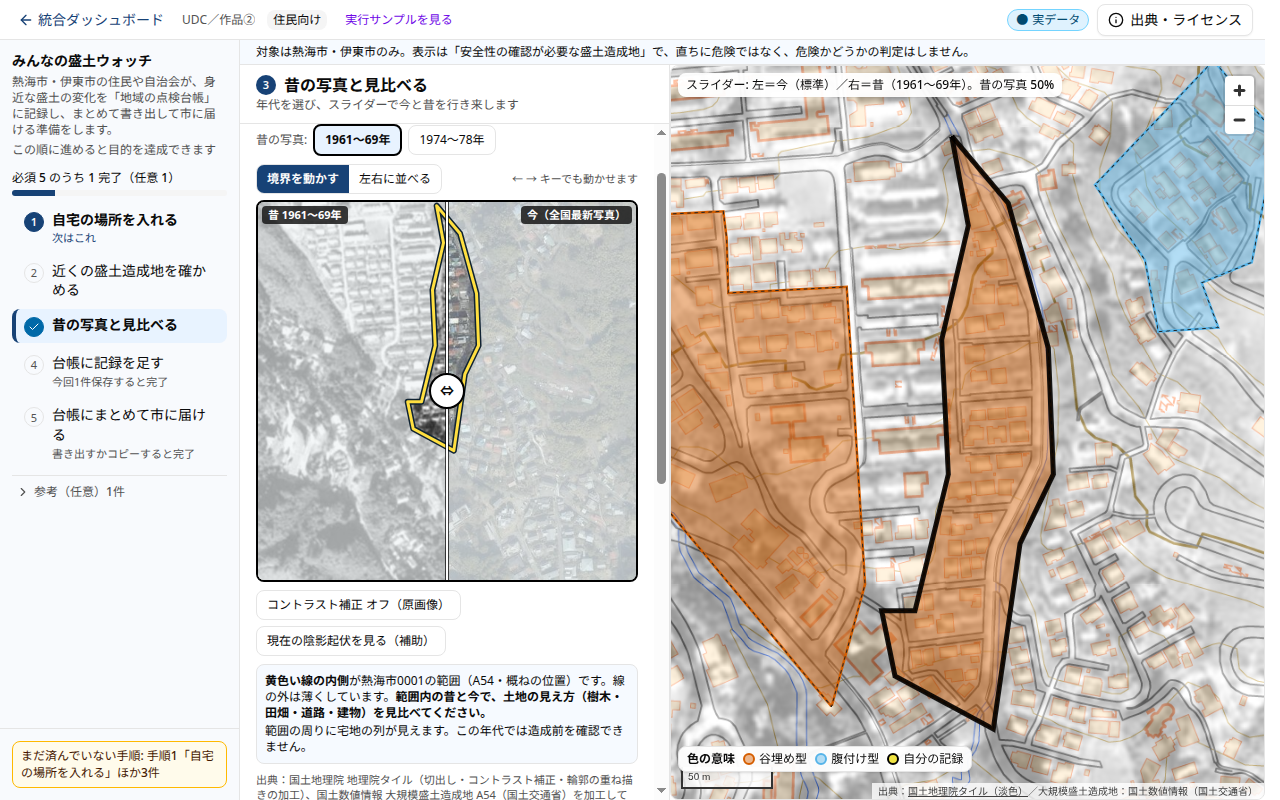
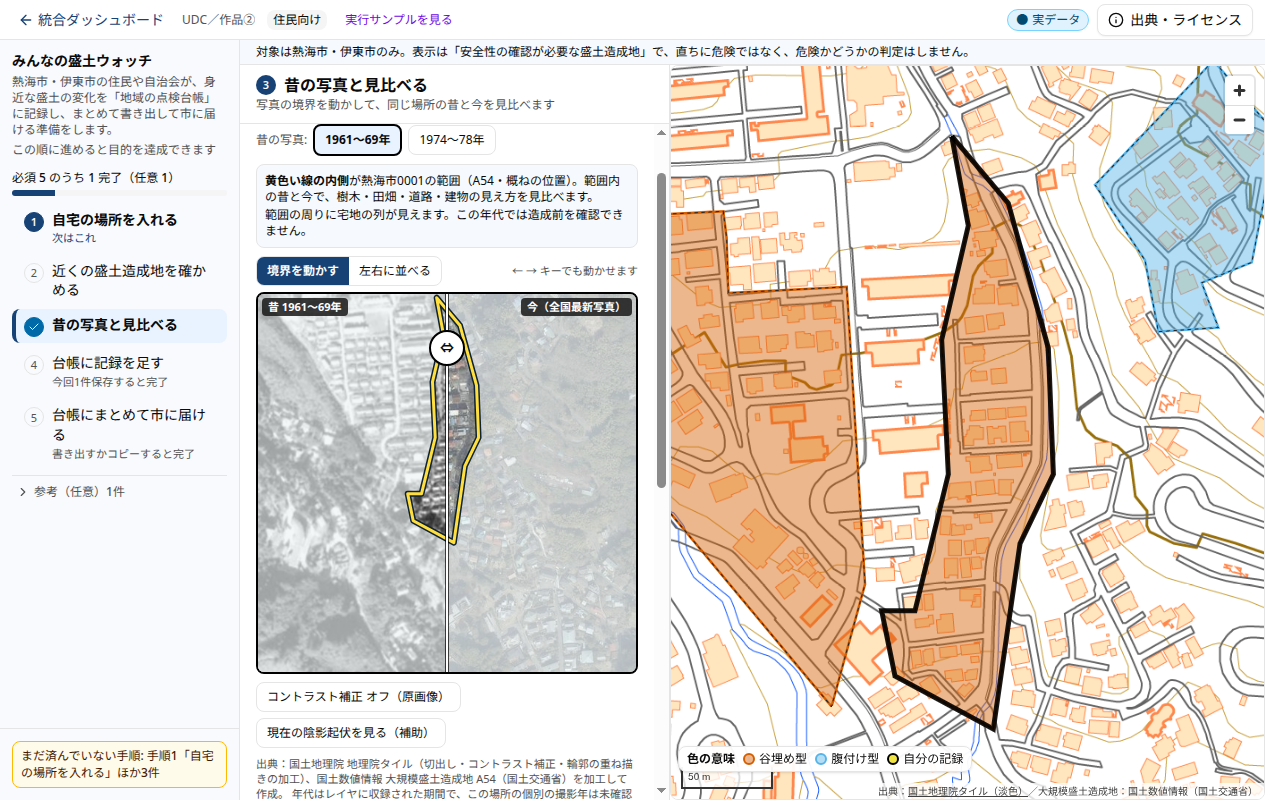
デザイン審査M1〜M5の修正: 盛土の初期表示は新旧比較を主役に、スマホは地図を小さくして境界と観察結果を初期画面内へ、端では表示外の年代ラベルを出さない、つまみを上部へ移し細い範囲の中心を覆わない、旧河道の資料名を写真の直下へ・原図は移動手段つき

diff --git a/contests/dashboard/src/components/shared/PhotoCompare.tsx b/contests/dashboard/src/components/shared/PhotoCompare.tsx
@@ -2,7 +2,7 @@
    - 境界はドラッグ、またはキーボード（← →、Shift で大きく、Home／End）で動かせる
    - TileMosaic: 地理院タイル（ズーム固定）を画素位置に並べる。画像が無い年代は「この年代の画像なし」を出す（空白で済ませない）
    - ringsToPath: 輪郭（経緯度のリング）を画素座標のパスにする */
-import { useCallback, useEffect, useRef, useState, type KeyboardEvent, type PointerEvent, type ReactNode } from 'react'
+import { useCallback, useEffect, useLayoutEffect, useRef, useState, type KeyboardEvent, type PointerEvent, type ReactNode } from 'react'
 
 export const WIN = 512
 const TILE_BASE = 'https://cyberjapandata.gsi.go.jp/xyz/'
@@ -88,14 +88,27 @@ export function CompareFrame({ children }: { children: ReactNode }) {
 }
 
 export function PhotoCompare({
-  left, right, overlay, ariaLabel, onInteract, testId = 'photo-compare', defaultMode = 'swipe',
+  left, right, overlay, caption, ariaLabel, onInteract, testId = 'photo-compare', defaultMode = 'swipe',
 }: {
-  left: CompareSide; right: CompareSide; overlay?: ReactNode; ariaLabel: string; onInteract?: () => void; testId?: string; defaultMode?: 'swipe' | 'side'
+  left: CompareSide; right: CompareSide; overlay?: ReactNode; /** 写真の直下に常に出す説明（例: 重ねている輪郭の資料名） */ caption?: ReactNode; ariaLabel: string; onInteract?: () => void; testId?: string; defaultMode?: 'swipe' | 'side'
 }) {
   const [mode, setMode] = useState<'swipe' | 'side'>(defaultMode)
   const [pos, setPos] = useState(50)
   const box = useRef<HTMLDivElement>(null)
   const drag = useRef(false)
+  const [boxW, setBoxW] = useState(360)
+  useLayoutEffect(() => {
+    const e = box.current
+    if (!e) return
+    setBoxW(e.getBoundingClientRect().width || 360)
+    const ro = new ResizeObserver(() => setBoxW(e.getBoundingClientRect().width || 360))
+    ro.observe(e)
+    return () => ro.disconnect()
+  }, [mode])
+  // 年代ラベルは、その側の写真がラベルの幅より広く見えているときだけ出す（見えていない側の年代を写真の上に残さない）
+  const labelW = (t: string) => t.length * 11 + 16
+  const showLeft = (pos / 100) * boxW >= labelW(left.label) + 8
+  const showRight = ((100 - pos) / 100) * boxW >= labelW(right.label) + 8
   const move = useCallback((clientX: number) => {
     const r = box.current?.getBoundingClientRect()
     if (!r || r.width === 0) return
@@ -136,14 +149,19 @@ export function PhotoCompare({
         >
           <div className="absolute inset-0">{right.node}{overlay}</div>
           <div className="absolute inset-0" style={{ clipPath: `inset(0 ${100 - pos}% 0 0)` }}>{left.node}{overlay}</div>
-          <span className={`${badge} left-1`}>{left.label}</span>
-          <span className={`${badge} right-1 text-right`}>{right.label}</span>
+          {pos > 0 && pos < 100 && showLeft && <span className={`${badge} left-1`} data-testid="label-left">{left.label}</span>}
+          {pos > 0 && pos < 100 && showRight && <span className={`${badge} right-1 text-right`} data-testid="label-right">{right.label}</span>}
+          {(pos <= 0 || pos >= 100 || (!showLeft && !showRight)) && (
+            <span className={`${badge} left-1 !max-w-[70%]`} data-testid="label-state">
+              {pos <= 0 ? `全面：${right.label}` : pos >= 100 ? `全面：${left.label}` : '境界を広げると年代が出ます'}
+            </span>
+          )}
           <div className="pointer-events-none absolute inset-y-0 z-10 w-0.5 -translate-x-1/2 bg-white shadow-[0_0_0_1px_rgba(0,0,0,.7)]" style={{ left: `${pos}%` }} />
           <div
             role="slider" tabIndex={0} aria-label="新旧の境界。左右の矢印キーで動かす" aria-orientation="horizontal"
             aria-valuemin={0} aria-valuemax={100} aria-valuenow={pos} aria-valuetext={`左の ${pos}% が「${left.label}」、残りが「${right.label}」`}
             onKeyDown={key}
-            className="absolute top-1/2 z-20 flex size-9 -translate-x-1/2 -translate-y-1/2 items-center justify-center rounded-full border-2 border-black bg-white text-sm font-bold shadow focus-visible:outline-none focus-visible:ring-4 focus-visible:ring-[#0072B2]"
+            className="absolute top-9 z-20 flex size-9 -translate-x-1/2 items-center justify-center rounded-full border-2 border-black bg-white text-sm font-bold shadow focus-visible:outline-none focus-visible:ring-4 focus-visible:ring-[#0072B2]"
             style={{ left: `${pos}%` }}
           >⇔</div>
         </div>
@@ -157,6 +175,7 @@ export function PhotoCompare({
           ))}
         </div>
       )}
+      {caption}
     </div>
   )
 }

diff --git a/contests/dashboard/src/apps/udc-moritsuchi/SitePhotoCompare.tsx b/contests/dashboard/src/apps/udc-moritsuchi/SitePhotoCompare.tsx
@@ -89,6 +89,17 @@ export function SitePhotoCompare({ fill, onInteract }: { fill: FillFeature; onIn
           <button key={e} type="button" aria-pressed={era === e} className={btn} onClick={() => { setEra(e); onInteract?.() }}>{ERA_LABEL[e]}</button>
         ))}
       </div>
+      <div className="space-y-0.5 rounded-md border bg-accent/40 p-2 text-xs" data-testid="site-compare-note">
+        <p><b>黄色い線の内側</b>が{id}の範囲（A54・概ねの位置）。範囲内の昔と今で、樹木・田畑・道路・建物の見え方を見比べます。</p>
+        {obs && (
+          <p data-testid="site-obs">
+            {obs.pre ? `見えること（目視）: ${obs.text}` : `${obs.text}この年代では造成前を確認できません。`}
+            {obs.pre && 'ただし写真から谷や沢の位置・盛土の厚さは分かりません。'}
+          </p>
+        )}
+        {!obs && <p>見えること: この地点の読み取りは未実施です。写真は目視で見比べ、昔の様子は断定しません。</p>}
+        {hill && <p>陰影起伏は<b>現在の</b>地形を陰影で表した図です。昔の地形は分かりません（写真より粗く表示されます）。</p>}
+      </div>
       <PhotoCompare
         ariaLabel={`${id}の昔の写真と今の比較`}
         onInteract={onInteract}
@@ -106,17 +117,6 @@ export function SitePhotoCompare({ fill, onInteract }: { fill: FillFeature; onIn
       </div>
       {!prepared && <p className="text-[11px] text-muted-foreground">この地点は補正なしの原画像だけを表示します（補正は偵察で使った3地点のみ）。</p>}
       {oldMissing && !prepared && <p className="text-xs font-bold" role="status">この年代の写真は、この場所には提供されていません。</p>}
-      <div className="space-y-0.5 rounded-md border bg-accent/40 p-2 text-xs" data-testid="site-compare-note">
-        <p><b>黄色い線の内側</b>が{id}の範囲（A54・概ねの位置）です。線の外は薄くしています。<b>範囲内の昔と今で、土地の見え方（樹木・田畑・道路・建物）を見比べてください。</b></p>
-        {obs && (
-          <p data-testid="site-obs">
-            {obs.pre ? `見えること（目視）: ${obs.text}` : `${obs.text}この年代では造成前を確認できません。`}
-            {obs.pre && 'ただし写真から谷や沢の位置・盛土の厚さは分かりません。'}
-          </p>
-        )}
-        {!obs && <p>見えること: この地点の読み取りは未実施です。写真は目視で見比べ、昔の様子は断定しません。</p>}
-        {hill && <p>陰影起伏は<b>現在の</b>地形を陰影で表した図です。昔の地形は分かりません（写真より粗く表示されます）。</p>}
-      </div>
       <p className="text-[11px] leading-snug text-muted-foreground">
         出典：国土地理院 地理院タイル（切出し・{prepared ? 'コントラスト補正・' : ''}輪郭の重ね描きの加工）、国土数値情報 大規模盛土造成地 A54（国土交通省）を加工して作成。
         年代はレイヤに収録された期間で、この場所の個別の撮影年は未確認です。「今」の写真は最新の現況を保証しません。

diff --git a/contests/dashboard/src/apps/biz-idea/ChimeiCompare.tsx b/contests/dashboard/src/apps/biz-idea/ChimeiCompare.tsx
@@ -35,7 +35,7 @@ export function inS1Area(lon: number, lat: number) {
 }
 
 export function ChimeiCompare({
-  lon, lat, isSample, channel, onChannel, onInteract,
+  lon, lat, isSample, channel, onChannel, onInteract, onShowMap,
 }: {
   lon: number; lat: number
   /** サンプル地名 s1 か（注目枠と補正画像を使う） */
@@ -43,6 +43,8 @@ export function ChimeiCompare({
   channel: ChannelMode
   onChannel: (m: ChannelMode) => void
   onInteract?: () => void
+  /** 地図（原図）の位置へ移動する（押したときだけ。自動では動かさない） */
+  onShowMap?: () => void
 }) {
   const [era, setEra] = useState<Era>('ort_old10')
   const [clahe, setClahe] = useState(false)
@@ -113,6 +115,12 @@ export function ChimeiCompare({
         left={{ label: `${ERAS[era].short}${claheOn ? '（補正）' : ''}`, node: oldNode }}
         right={{ label: '今（全国最新写真）', node: newNode }}
         overlay={overlay}
+        caption={showOutline ? (
+          <p className="flex items-center gap-1.5 text-xs font-bold" data-testid="channel-caption">
+            <span className="inline-block h-1 w-6 shrink-0 bg-[#0054c8] ring-1 ring-white" />
+            青線＝治水地形分類図の旧河道（近似輪郭）。写真から分かった川筋ではありません
+          </p>
+        ) : undefined}
       />
       {missing && !(s1 && era === 'ort_old10') && <p className="text-xs font-bold" role="status">この年代の画像なし（この場所の昔の写真は提供されていません）。</p>}
 
@@ -141,9 +149,16 @@ export function ChimeiCompare({
             {channel === 'outline' ? '旧河道の輪郭を表示中（押すと消す）' : '旧河道の輪郭を重ねる'}
           </button>
           <button type="button" className={btn} aria-pressed={channel === 'orig'} onClick={() => { onChannel(channel === 'orig' ? 'off' : 'orig'); onInteract?.() }}>
-            {channel === 'orig' ? '原図（治水地形分類図）を地図に表示中' : '原図に戻す（地図に治水地形分類図）'}
+            {channel === 'orig' ? '地図に原図を表示中（押すと消す）' : '上（右）の地図で原図を見る'}
           </button>
         </div>
+        {channel === 'orig' && (
+          <div className="flex flex-wrap items-center gap-1.5 rounded-md border border-dashed p-1.5 text-xs" role="status" data-testid="orig-status">
+            <span>原図（治水地形分類図）は写真ではなく、地図の側に表示しています。</span>
+            <button type="button" className={btn} onClick={() => onShowMap?.()}>地図の原図を見る</button>
+            <button type="button" className={btn} onClick={() => document.querySelector('[data-testid=chimei-compare]')?.scrollIntoView({ block: 'start' })}>写真の比較へ戻る</button>
+          </div>
+        )}
         {!outlineOk && <p className="text-[11px] text-muted-foreground">輪郭データは s1 周辺（約1km四方）だけです。この場所では原図のみ表示できます。</p>}
         {showOutline && (
           <p className="text-xs" data-testid="channel-label">

diff --git a/contests/dashboard/src/apps/udc-moritsuchi/index.tsx b/contests/dashboard/src/apps/udc-moritsuchi/index.tsx
@@ -345,10 +345,8 @@ export default function App() {
   useEffect(() => {
     if (step !== 'compare' || selFill === null) return
     setDidCompare(true)
-    if (old === 'none') {
-      setOld('ort_old10')
-      setOp('50')
-    }
+    // 主役は新旧比較。大きな地図への半透明の重ね表示は、旧操作の折りたたみを開いたときだけ出す
+    if (!sample) setOld('none')
     const f = fills.find((x) => x.properties.id === selFill)
     if (f) mapRef.current?.fitBounds(bboxOf(f), { padding: 70, maxZoom: 17, duration: 600 })
     // eslint-disable-next-line react-hooks/exhaustive-deps
@@ -555,7 +553,7 @@ export default function App() {
   const STEP_META: Record<string, { title: string; hint: string }> = {
     place: { title: '自宅の場所を入れる', hint: '住所・駅名で検索します（熱海駅は例です）' },
     look: { title: '近くの盛土造成地を確かめる', hint: '一覧から選び、型（谷埋め／腹付け）を見ます' },
-    compare: { title: '昔の写真と見比べる', hint: '年代を選び、スライダーで今と昔を行き来します' },
+    compare: { title: '昔の写真と見比べる', hint: '写真の境界を動かして、同じ場所の昔と今を見比べます' },
     rec: { title: '台帳に記録を足す', hint: '地図をタップして位置を決め、気づいたことを1件ずつ台帳に足します' },
     prep: { title: '台帳にまとめて市に届ける', hint: '台帳をCSV／GeoJSONで書き出す。1件の通報文もコピーできます' },
     ref: { title: '参考（出典・注意）', hint: '任意。データの出典と使うときの注意です' },
@@ -776,7 +774,12 @@ export default function App() {
         </ul>
         <p className="text-xs text-muted-foreground">これは一般的な見方の例です。写真から危険かどうかは判定しません。</p>
       </div>
-      <details className="rounded-md border p-2" data-testid="map-overlay-controls">
+      <details
+        className="rounded-md border p-2" data-testid="map-overlay-controls" open={sample || undefined}
+        onToggle={(e) => {
+          if (e.currentTarget.open) { if (old === 'none') setOld('ort_old10'); setOp('50') } else setOld('none')
+        }}
+      >
         <summary className="cursor-pointer text-sm font-bold">地図の上に昔の写真を重ねて見る（広い範囲を見たいとき）</summary>
       <div className="mt-2 space-y-3">
       <div className="space-y-1">
@@ -999,7 +1002,7 @@ export default function App() {
       <p className="shrink-0 border-b bg-accent/40 px-4 py-1 text-xs" data-testid="caution-line">
         対象は熱海市・伊東市のみ。表示は「安全性の確認が必要な盛土造成地」で、直ちに危険ではなく、危険かどうかの判定はしません。
       </p>
-      <StepLayout title={meta.title} hint={meta.hint} aside={mapAside}>
+      <StepLayout title={meta.title} hint={meta.hint} aside={mapAside} asideClassName={step === 'compare' ? 'max-md:!h-[16vh]' : undefined}>
         {panels[step]}
       </StepLayout>
 

diff --git a/contests/dashboard/src/components/shared/StepLayout.tsx b/contests/dashboard/src/components/shared/StepLayout.tsx
@@ -17,8 +17,8 @@ import { SampleStepNote } from '@/components/layout/SampleBar'
  * aside に MapView を入れる時は className なしで構わない（高さは親に合わせて 100% になる）。
  */
 export function StepLayout({
-  title, hint, aside, notice, children,
-}: { title: string; hint?: string; aside?: ReactNode; notice?: ReactNode; children: ReactNode }) {
+  title, hint, aside, asideClassName, notice, children,
+}: { title: string; hint?: string; aside?: ReactNode; /** 地図側の追加クラス（例: スマホで小さくする） */ asideClassName?: string; notice?: ReactNode; children: ReactNode }) {
   useLayoutActiveFlag()
   const { steps, activeId } = useRegisteredSteps()
   const appId = useAppId()
@@ -56,7 +56,7 @@ export function StepLayout({
           </div>
         </section>
         {aside && (
-          <div className="order-first h-[38vh] shrink-0 md:order-none md:h-auto md:min-w-0 md:flex-1 [&>*]:!h-full [&>*]:!rounded-none [&>*]:!border-0">
+          <div className={`order-first h-[38vh] shrink-0 md:order-none md:h-auto md:min-w-0 md:flex-1 [&>*]:!h-full [&>*]:!rounded-none [&>*]:!border-0 ${asideClassName ?? ''}`}>
             {aside}
           </div>
         )}

diff --git a/contests/dashboard/src/apps/biz-idea/index.tsx b/contests/dashboard/src/apps/biz-idea/index.tsx
@@ -553,6 +553,7 @@ export default function BizIdeaApp() {
           key={`${focus.lon},${focus.lat}`}
           lon={focus.lon} lat={focus.lat} isSample={focus.place?.id === 's1'}
           channel={channel} onChannel={changeChannel} onInteract={markOverlayDone}
+          onShowMap={() => document.getElementById('biz-map')?.scrollIntoView({ block: 'start' })}
         />
       ) : (
         <Alert><MapPin className="size-4" /><AlertTitle>先に地名を選ぶと、昔と今の写真を見比べられます</AlertTitle>
@@ -781,7 +782,7 @@ export default function BizIdeaApp() {
   }
 
   const mapAside = (
-    <div className="relative">
+    <div className="relative" id="biz-map">
       {!mapIdle && (
         <div className="pointer-events-none absolute inset-0 z-10 flex items-center justify-center bg-white/80" role="status">
           <div className="space-y-2 text-center text-sm">
